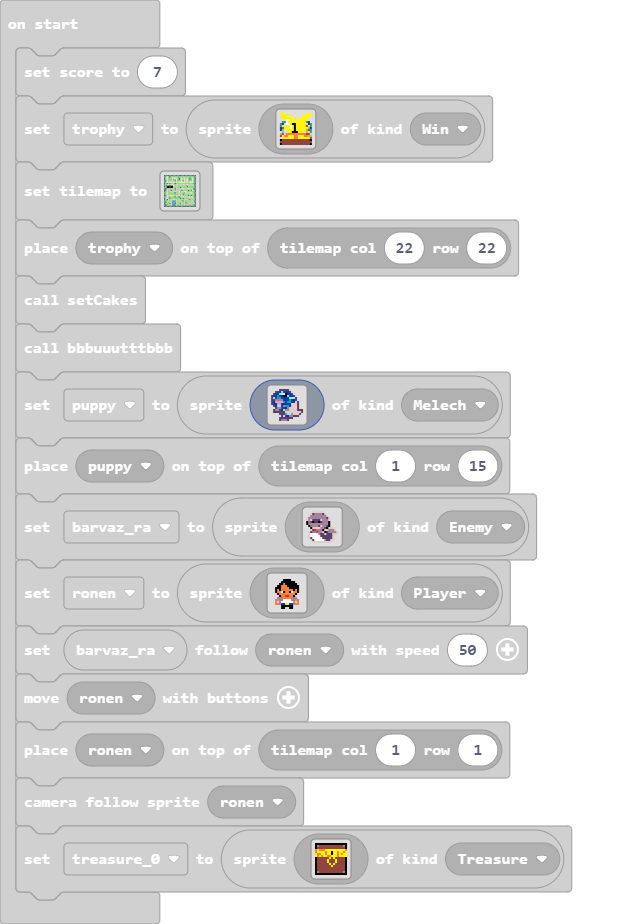
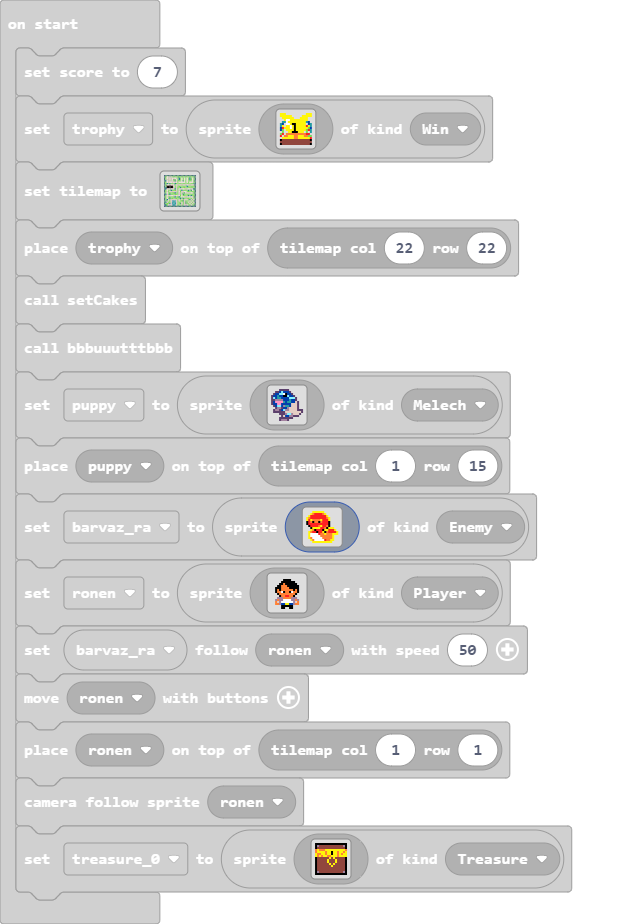
Update main.blocks, main.ts

Changed region(s): [[0.3958, 0.3939, 0.5176, 0.4848], [0.4567, 0.5152, 0.5785, 0.6061]]

diff --git a/main.ts b/main.ts
@@ -174,22 +174,22 @@ let puppy = sprites.create(img`
     `, SpriteKind.Melech)
 tiles.placeOnTile(puppy, tiles.getTileLocation(1, 15))
 let barvaz_ra = sprites.create(img`
-    . . . d d d d d d . . . . . . . 
-    . . d c b b b b c d . . . . . . 
-    . d b b b b b b b b d . . . . . 
-    d b b b b b b b b b c d . . . . 
-    d b d c c c c d b b b d . . . . 
-    f b c f c c f c b b b f . . . . 
-    f b b b b b b b b b b f . . . . 
-    . f b b b b c d b b c f . . . . 
-    . . f d d d d b b c f d d d . . 
-    . . d c 2 b b b f d d b b b d . 
-    . d c b b 2 b b d f c b b b b d 
-    . d 1 1 1 1 b c c d c c c d d d 
-    . d 1 1 1 1 1 c c c c c c d . . 
-    . d c 1 1 1 1 1 c c c c c d . . 
-    . . d c 1 1 1 1 1 b c c d d . . 
-    . . . d d d d d d d d d d . . . 
+    . . . 5 5 5 5 5 5 . . . . . . . 
+    . . 5 4 2 2 2 2 4 5 . . . . . . 
+    . 5 2 2 2 2 2 2 2 2 5 . . . . . 
+    5 4 2 2 2 2 2 2 2 2 4 5 . . . . 
+    5 2 5 4 4 4 4 5 2 2 2 5 . . . . 
+    f 2 4 f 4 4 f 4 2 2 2 f . . . . 
+    f 2 2 2 2 2 2 2 2 2 2 f . . . . 
+    . f 2 2 2 2 4 5 2 2 4 f . . . . 
+    . . f 5 5 5 5 2 2 4 f 5 5 5 . . 
+    . . 5 4 f 2 2 2 f 5 5 2 2 2 5 . 
+    . 5 4 2 2 f 2 2 5 f 4 2 2 2 2 5 
+    . 5 1 1 1 1 2 4 4 5 4 4 4 5 5 5 
+    . 5 1 1 1 1 1 4 4 4 4 4 4 5 . . 
+    . 5 4 1 1 1 1 1 4 4 4 4 4 5 . . 
+    . . 5 4 1 1 1 1 1 2 4 4 5 5 . . 
+    . . . 5 5 5 5 5 5 5 5 5 5 . . . 
     `, SpriteKind.Enemy)
 ronen = sprites.create(img`
     . . . . . . . . . . . . 
